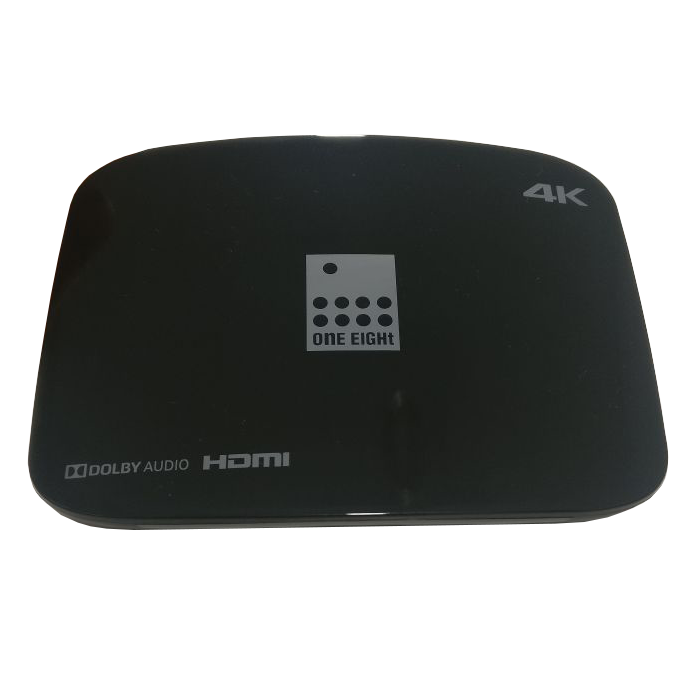
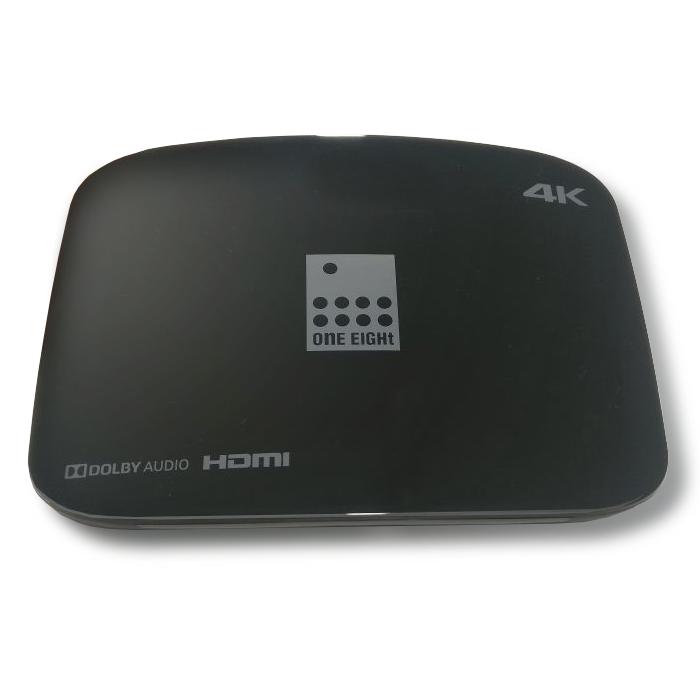
updated footer and cpe image

Changed region(s): [[0.06, 0.21, 0.42, 0.63], [0.06, 0.27, 0.99, 0.81]]

diff --git a/src/main/webapp/about.html b/src/main/webapp/about.html
@@ -1,7 +1,7 @@
 <!DOCTYPE html>
 <html lang="en">
     <head>
-	<link rel="icon" href="./assets/images/favicon.png" type="image/x-icon">
+        <link rel="icon" href="./assets/images/favicon.png" type="image/x-icon">
         <meta charset="utf-8">
         <meta http-equiv="X-UA-Compatible" content="IE=edge">
         <meta name="viewport" content="width=device-width, initial-scale=1">
@@ -74,14 +74,14 @@
                 <div class="col-md-4 removepadding">
                     <h1 class="left-right-bottom-padding" style="color:white;">We are One8</h1> 
                     <p class="left-right-bottom-padding" style="color:white;">We are a next-generation hyper-
-convergence technology company and 
-we’re here to  enable the most 
-intelligent, intuitive and transparent 
-broadband network. That's geek speak 
-for an internet experience which gives 
-you lag-free access to the best the 
-World Wide Web offers at the highest 
-quality possible on your devices. </p> 
+                        convergence technology company and 
+                        we’re here to  enable the most 
+                        intelligent, intuitive and transparent 
+                        broadband network. That's geek speak 
+                        for an internet experience which gives 
+                        you lag-free access to the best the 
+                        World Wide Web offers at the highest 
+                        quality possible on your devices. </p> 
                 </div>
                 <div class="col-md-8 removepadding" style="background-color:#0066cc">
                     <img class="img-responsive" src="./assets/images/we_are_one8.jpg" />
@@ -94,10 +94,10 @@ quality possible on your devices. </p>
                     <h1 class="text_center" style="margin-top:50px; margin-bottom:50px;">Presenting the network that never stops</h1> 
                     <img class="center-block" src="./assets/images/arrow_image.png" />
                     <p class="text_center" style="margin-top:50px; margin-bottom:50px;">Build a path breaking cloud platform, connect with experienced 
-infrastructure partners, enable telco-grade networks — that’s how we did it. 
-We're a technology-led team and nothing excites us more that the next 
-big invention. With deep experience in the tradition-ally 
-business-led telco industry, we started One8 to change the paradigm.</p> 
+                        infrastructure partners, enable telco-grade networks — that’s how we did it. 
+                        We're a technology-led team and nothing excites us more that the next 
+                        big invention. With deep experience in the tradition-ally 
+                        business-led telco industry, we started One8 to change the paradigm.</p> 
                 </div>
             </div>
         </div>
@@ -109,15 +109,15 @@ business-led telco industry, we started One8 to change the paradigm.</p>
                 <div class="col-md-4 removepadding">
                     <h1 class="left-right-bottom-padding" style="color:white;">We’re driven by analtyics</h1> 
                     <p class="left-right-bottom-padding" style="color:white;">That's what makes all the difference. 
-Our advanced could-based analytics 
-technology continuously monitors 
-usage. This means that not only can 
-we ensure that every user gets the 
-right speed for the best experience, 
-but that we can predict a breakdown 
-well in advance and fix it before you 
-feel it. When it comes to network, 
-fast and steady wins the race. </p> 
+                        Our advanced could-based analytics 
+                        technology continuously monitors 
+                        usage. This means that not only can 
+                        we ensure that every user gets the 
+                        right speed for the best experience, 
+                        but that we can predict a breakdown 
+                        well in advance and fix it before you 
+                        feel it. When it comes to network, 
+                        fast and steady wins the race. </p> 
                 </div>
             </div>
         </div>
@@ -127,9 +127,9 @@ fast and steady wins the race. </p>
                     <h1 class="text_center" style="margin-top:50px; margin-bottom:50px;">We believe you deserve to know</h1> 
                     <img class="center-block" src="./assets/images/cube_image.png" />
                     <p class="text_center" style="margin-top:50px; margin-bottom:50px;">To know what you’re paying for. To know where your 
-data goes. That’s the reason why our data plans are exactly about that - data. 
-Choose any plan, rest assured of unparal-leled streaming, surfing or downloading  experience. 
-No unnecessary speed caps (other than FUP) and no inaccurate speed tests. Starting with simple plans and transparent billing, we're geared to move towards India's first pay-as-you-go model. </p> 
+                        data goes. That’s the reason why our data plans are exactly about that - data. 
+                        Choose any plan, rest assured of unparal-leled streaming, surfing or downloading  experience. 
+                        No unnecessary speed caps (other than FUP) and no inaccurate speed tests. Starting with simple plans and transparent billing, we're geared to move towards India's first pay-as-you-go model. </p> 
                 </div>
             </div>
         </div>
@@ -165,6 +165,7 @@ No unnecessary speed caps (other than FUP) and no inaccurate speed tests. Starti
                                         <li>
                                             <a style="color: #000" href="#">REFUND AND CANCELLATION</a>
                                         </li>
+                                        <li><a style="color: #000" href="#">CONTACT US</a></li>
                                     </ul>                                     
                                 </div>
                             </div>

diff --git a/src/main/webapp/index.html b/src/main/webapp/index.html
@@ -110,7 +110,7 @@
             <div class="container-fluid">
                 <div class="row sec2row sec2blk_eq_ht">
                     <div class="col-md-2"> 
-</div>
+                    </div>
                     <div class="col-md-4 sec2block">
                         <h3 class="sec5hd2">PLANS</h3>
                         <h3 class="sec2hd3"><span id="basic">BASIC </span>&nbsp; <span id="standard">STANDARD</span> &nbsp;<span id="premium">PREMIUM</span></h3>
@@ -131,7 +131,7 @@
                         </div>
                     </div>
                     <div class="col-md-2"> 
-</div>
+                    </div>
                 </div>
             </div>
         </div>
@@ -153,7 +153,7 @@
             <div class="container-fluid">
                 <div class="row sec2row sec2blk_eq_ht">
                     <div class="col-md-3"> 
-</div>
+                    </div>
                     <div class="col-md-3 sec2block">
                         <h3 class="plan_rs separating_line"><div id="slidertextprice" /></h3> 
                         <p class="sec2blktxt"> *<span id="slidertextdata" /></p>
@@ -164,7 +164,7 @@
                         </div>
                     </div>
                     <div class="col-md-3"> 
-</div>
+                    </div>
                 </div>
             </div>
         </div>
@@ -202,7 +202,7 @@
             </div>
         </div>
 
--->
+        -->
         <!-- NEVER DOUBT -->
         <div class="container-fluid">
             <div class="row">
@@ -210,7 +210,7 @@
             </div>
             <div class="row row-white" style="padding-bottom:25px;">
                 <div class="col-md-2"> 
-</div>
+                </div>
                 <div class="col-md-4">
                     <div align="center">
                         <img style="height: 70px; widows: 150px" id="money" src="./assets/images/no_hidden_cost.png" class="img-responsive " /> 
@@ -229,7 +229,7 @@
                         and more. </p> 
                 </div>
                 <div class="col-md-1"> 
-</div>
+                </div>
             </div>
             <div class="row row-white" style="padding-bottom:50px;">
                 <div class="col-md-12">
@@ -251,7 +251,7 @@
         <div class="container-fluid ">
             <div class="row sec7row">
                 <div class="col-md-4 nopadding">
-                    <img id="section3" src="./assets/images/cpe2.png" class="img-responsive img-contain" />
+                    <img id="section3" src="./assets/images/cpe.png" class="img-responsive img-contain" />
                 </div>
                 <div class="col-md-8">
                     <div class="row top-bottom-padding">
@@ -294,7 +294,7 @@
                         </div>
                     </div>
                     <div class="row" style="padding-top:25px; padding-bottom:25px;">
-</div>
+                    </div>
                     <div class="row" style="padding-top:10px; padding-bottom:10px;">
                         <button type="button" class="btn btn-danger sec5button btn-xl" align="right">SIGN ME UP</button>
                     </div>
@@ -339,6 +339,7 @@
                                         <li>
                                             <a style="color: #000" href="#">REFUND AND CANCELLATION</a>
                                         </li>
+                                        <li><a style="color: #000" href="#">CONTACT US</a></li>
                                     </ul>                                     
                                 </div>
                             </div>
